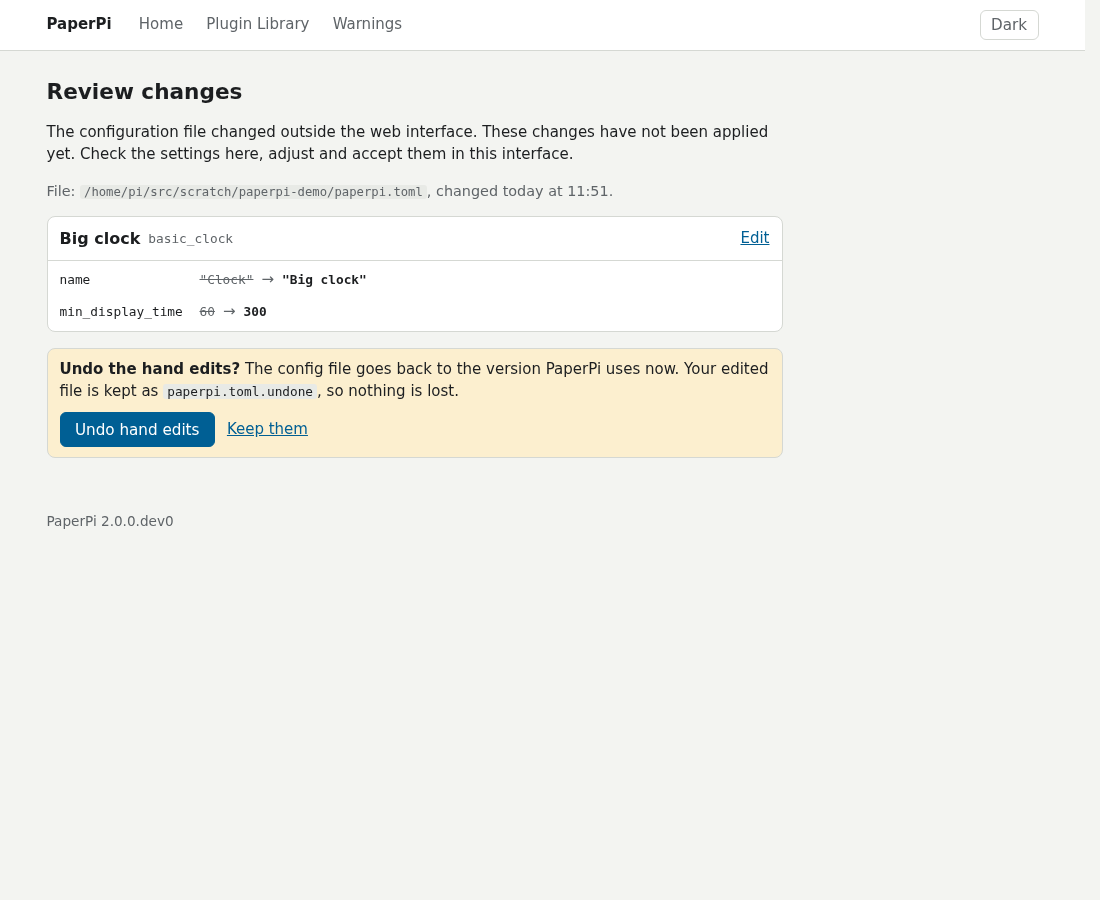
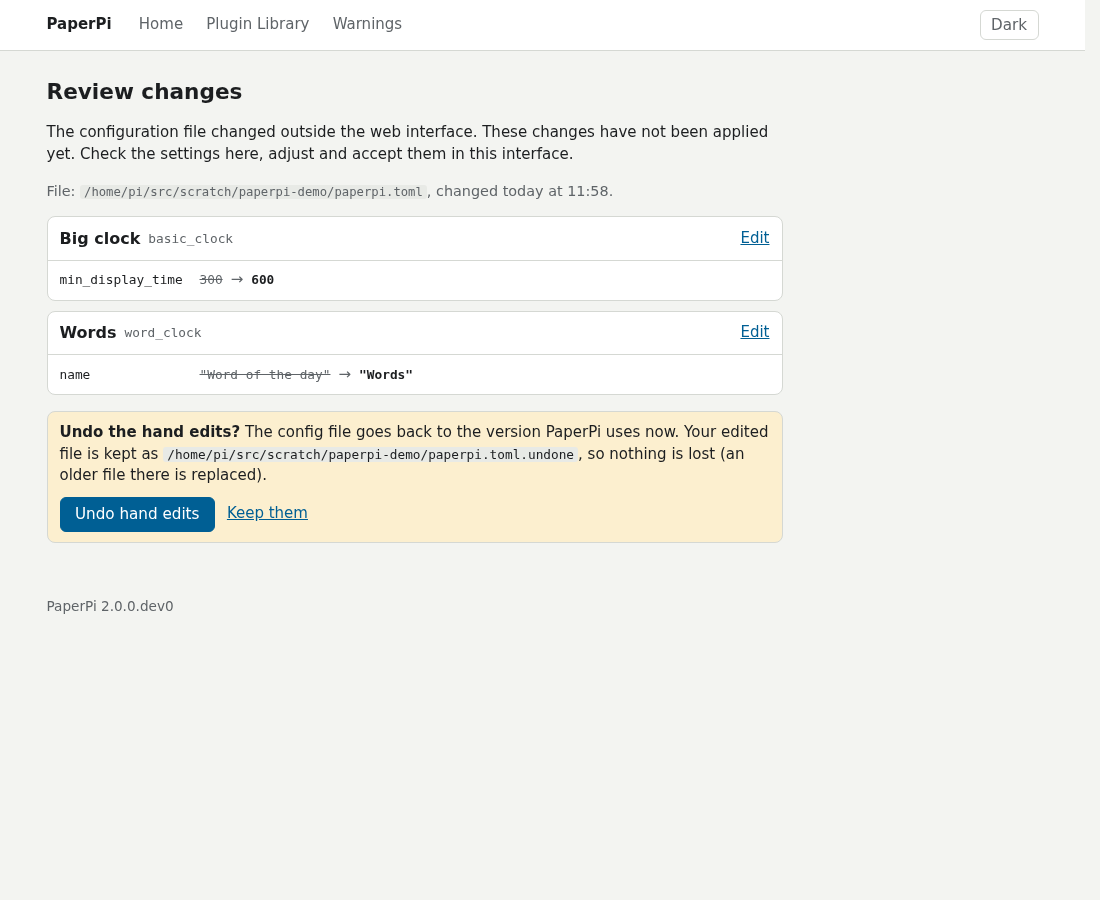
Review fixes: real path of the .undone file, refuse a stale Undo, inode in the hand edits check

Changed region(s): [[0.0309, 0.28, 0.7109, 0.6222], [0.0309, 0.6533, 0.1545, 0.6844], [0.2782, 0.3111, 0.3091, 0.3422]]

diff --git a/src/paperpi/web/templates/changes.html b/src/paperpi/web/templates/changes.html
@@ -7,7 +7,7 @@
 <h1>Review changes</h1>
 {% if message %}<p class="saved">{{ message }}</p>{% endif %}
 {% if undone %}<p class="saved">Hand edits undone. Your edited file is saved as
-  <code>{{ undone }}</code>, next to the config file.</p>{% endif %}
+  <code>{{ kept }}</code>.</p>{% endif %}
 {% if problem %}<p class="note">Nothing was undone: {{ problem }}</p>{% endif %}
 {% if review is none %}
   {% if not running %}
@@ -73,8 +73,10 @@ applied yet. Check the settings here, adjust and accept them in this interface.<
 {% if asking %}
 <div class="confirm" id="undo">
   <p><strong>Undo the hand edits?</strong> The config file goes back to the version PaperPi
-  uses now. Your edited file is kept as <code>{{ path.name }}.undone</code>, so nothing is lost.</p>
+  uses now. Your edited file is kept as <code>{{ kept }}</code>, so nothing is lost
+  (an older file there is replaced).</p>
   <form method="post" action="/changes/undo">
+    <input type="hidden" name="seen" value="{{ seen }}">
     <button type="submit">Undo hand edits</button>
     <a href="/changes">Keep them</a>
   </form>

diff --git a/tests/test_web_changes.py b/tests/test_web_changes.py
@@ -7,7 +7,7 @@ from fastapi.testclient import TestClient
 
 from paperpi import config, limits
 from paperpi.scheduler import Summary
-from paperpi.web import auth, changes
+from paperpi.web import auth, changes, config_file
 from paperpi.web.app import create_app
 from paperpi.web.plugins import PluginEditor
 
@@ -328,6 +328,11 @@ def test_without_the_screen_running_there_is_nothing_to_apply(cfg):
 # Undo hand edits
 
 
+def undo(client, text):
+    """Send Undo as the confirm box does, for the file ``text`` it showed."""
+    return client.post("/changes/undo", data={"seen": config_file.fingerprint(text)})
+
+
 def test_undo_asks_first_and_works_without_javascript(setup, cfg):
     client, _ = setup
     cfg.write_text(edited(('name = "Clock"', 'name = "Big clock"')))
@@ -347,14 +352,14 @@ def test_undo_puts_back_the_applied_file_and_keeps_the_edited_one(setup, cfg):
     hand = edited(('name = "Clock"', 'name = "Big clock"'))
     cfg.write_text(hand)
     (cfg.parent / "paperpi.toml.undone").write_text("an older one")
-    response = client.post("/changes/undo")
+    response = undo(client, hand)
     assert response.headers["location"] == "/changes?done=undone"
     assert cfg.read_text() == CONFIG and cfg.stat().st_mode & 0o777 == 0o640
     kept = cfg.parent / "paperpi.toml.undone"
     assert kept.read_text() == hand and kept.stat().st_mode & 0o777 == 0o640
     assert scheduler.reloads == 0  # PaperPi uses this text already
     page = client.get(response.headers["location"]).text
-    assert "Hand edits undone" in page and "<code>paperpi.toml.undone</code>" in page
+    assert f"Hand edits undone. Your edited file is saved as\n  <code>{kept}</code>." in page
     assert "No hand edits are waiting" not in page
     assert "edits-bar" not in client.get("/").text
 
@@ -363,7 +368,7 @@ def test_a_file_with_a_mistake_can_be_undone(setup, cfg):
     client, _ = setup
     cfg.write_text(CONFIG + "\n[display\n")
     assert "Undo hand edits…" in client.get("/changes").text
-    client.post("/changes/undo")
+    undo(client, CONFIG + "\n[display\n")
     assert cfg.read_text() == CONFIG
 
 
@@ -371,13 +376,20 @@ def test_a_config_file_link_keeps_the_undone_file_next_to_the_real_file(tmp_path
     real = tmp_path / "etc" / "paperpi.toml"
     real.parent.mkdir()
     real.write_text(CONFIG)
-    link = tmp_path / "paperpi.toml"
+    link = tmp_path / "main.toml"
     link.symlink_to(real)
     editor = PluginEditor(link)
     editor.loaded(CONFIG)
-    real.write_text(edited(('name = "Clock"', 'name = "Big clock"')))
-    assert editor.undo() == real.parent / "paperpi.toml.undone"
-    assert link.is_symlink() and real.read_text() == CONFIG
+    scheduler = FakeScheduler(editor)
+    app = create_app(auth.Auth(link, config.WebSettings(login=False)), editor, controls=scheduler)
+    client = TestClient(app, follow_redirects=False, base_url=PI)
+    hand = edited(('name = "Clock"', 'name = "Big clock"'))
+    real.write_text(hand)
+    kept = real.parent / "paperpi.toml.undone"
+    assert f"<code>{kept}</code>" in client.get("/changes?undo=1").text
+    undo(client, hand)
+    assert link.is_symlink() and real.read_text() == CONFIG and kept.read_text() == hand
+    assert not (tmp_path / "main.toml.undone").exists()
 
 
 def test_nothing_to_undo(setup, cfg):
@@ -387,7 +399,7 @@ def test_nothing_to_undo(setup, cfg):
     assert "Undo the hand edits?" not in client.get("/changes?undo=1").text
     # Only a comment changed: no hand edit.
     cfg.write_text(CONFIG + "# a note\n")
-    assert client.post("/changes/undo").headers["location"] == "/changes"
+    assert undo(client, CONFIG + "# a note\n").headers["location"] == "/changes"
     assert cfg.read_text() == CONFIG + "# a note\n"
 
 
@@ -400,7 +412,7 @@ def test_undo_says_when_a_file_cant_be_saved(setup, cfg, monkeypatch):
         raise PermissionError(13, "Permission denied")
 
     monkeypatch.setattr("paperpi.web.config_file.write_atomic", fail)
-    response = client.post("/changes/undo")
+    response = undo(client, hand)
     assert response.status_code == 409
     assert "Nothing was undone: can&#39;t save" in response.text
     assert "paperpi.toml.undone: [Errno 13] Permission denied" in response.text
@@ -408,8 +420,6 @@ def test_undo_says_when_a_file_cant_be_saved(setup, cfg, monkeypatch):
 
 
 def test_undo_never_loses_the_edits_when_the_config_file_cant_be_saved(tmp_path, monkeypatch):
-    from paperpi.web import config_file
-
     path = tmp_path / "paperpi.toml"
     hand = edited(('name = "Clock"', 'name = "Big clock"'))
     path.write_text(hand)
@@ -424,7 +434,7 @@ def test_undo_never_loses_the_edits_when_the_config_file_cant_be_saved(tmp_path,
 
     monkeypatch.setattr(config_file, "write_atomic", fail_for_config)
     with pytest.raises(config_file.EditError, match="No space left"):
-        editor.undo()
+        editor.undo(config_file.fingerprint(hand))
     assert path.read_text() == hand and (tmp_path / "paperpi.toml.undone").read_text() == hand
 
 
@@ -436,3 +446,24 @@ def test_without_the_screen_running_there_is_nothing_to_undo(cfg):
     cfg.write_text(edited(('name = "Clock"', 'name = "Big clock"')))
     assert client.post("/changes/undo").headers["location"] == "/changes"
     assert cfg.read_text() != CONFIG
+
+
+def test_undo_refuses_when_the_file_changed_after_the_page_was_opened(setup, cfg):
+    client, _ = setup
+    shown = edited(('name = "Clock"', 'name = "Big clock"'))
+    cfg.write_text(shown)
+    assert f'value="{config_file.fingerprint(shown)}"' in client.get("/changes?undo=1").text
+    later = edited(('name = "Clock"', 'name = "Huge clock"'))
+    cfg.write_text(later)
+    response = undo(client, shown)
+    assert response.status_code == 409 and "changed after this page was opened" in response.text
+    assert cfg.read_text() == later and not (cfg.parent / "paperpi.toml.undone").exists()
+
+
+def test_undo_from_another_site_is_refused(setup, cfg):
+    client, _ = setup
+    hand = edited(('name = "Clock"', 'name = "Big clock"'))
+    cfg.write_text(hand)
+    seen = {"seen": config_file.fingerprint(hand)}
+    response = client.post("/changes/undo", data=seen, headers={"origin": "http://evil.example"})
+    assert response.status_code == 403 and cfg.read_text() == hand

diff --git a/src/paperpi/web/app.py b/src/paperpi/web/app.py
@@ -69,7 +69,7 @@ from ..config import ConfigError, folder_name, read_text
 from ..logbook import Logbook
 from . import changes, logs, warnings
 from .auth import COOKIE_SECONDS, Auth, new_cookie
-from .config_file import EditError, UnknownForm, saved_here
+from .config_file import EditError, UnknownForm, fingerprint, kept_path, saved_here
 from .forms import Read, fields, form_texts
 from .helpers import Searcher, SearchFailed, language
 from .home import Controls, Snapshots, card_key, cards, now_part
@@ -403,7 +403,8 @@ def create_app(
             stat = editor.path.stat()
         except OSError:
             return None
-        key = (stat.st_mtime_ns, stat.st_size, applied)
+        # A save makes a new file (new inode), even within the same timestamp step.
+        key = (stat.st_ino, stat.st_mtime_ns, stat.st_size, applied)
         if edits_found.get("key") != key:
             try:
                 text = read_text(editor.path)
@@ -444,10 +445,10 @@ def create_app(
             today=date.today(),
             command=_reload_command(),
             message=_DONE.get(done) if done in ("applied", "applying") else None,
-            undone=Path(os.path.realpath(editor.path)).name + ".undone"
-            if done == "undone" and found is None
-            else None,
+            kept=kept_path(editor.path),
+            undone=done == "undone" and found is None,
             asking=asking and found is not None,
+            seen=fingerprint(edited) if edited is not None else "",
             problem=problem,
         )
 
@@ -476,11 +477,11 @@ def create_app(
         return RedirectResponse(f"/changes?done={done}", status_code=303)
 
     @app.post("/changes/undo", response_class=HTMLResponse)
-    def undo_changes(request: Request):
+    def undo_changes(request: Request, seen: str = Form("")):
         if hand_edits() is None:  # undone already, or applied
             return RedirectResponse("/changes", status_code=303)
         try:
-            editor.undo()
+            editor.undo(seen)
         except EditError as error:
             return changes_view(request, 409, problem=str(error))
         return RedirectResponse("/changes?done=undone", status_code=303)

diff --git a/src/paperpi/web/plugins.py b/src/paperpi/web/plugins.py
@@ -147,18 +147,25 @@ class PluginEditor:
             self._reload()
         return hand_edits
 
-    def undo(self) -> Path:
+    def undo(self, seen: str) -> Path:
         """Undo the hand edits: put the text PaperPi uses now back in the config file.
 
+        ``seen`` is the :func:`config_file.fingerprint` of the edited text the page showed.
         The edited file is kept as ``<name>.undone`` next to it; returns that path. Nothing
         needs to load again, as PaperPi already uses this text. Raises
-        :class:`config_file.EditError` when there are no hand edits or a file can't be saved.
+        :class:`config_file.EditError` when there are no hand edits, the file changed after
+        the page showed it, or a file can't be saved.
         """
         with config_file.LOCK:
             path, text = config_file.read(self.path)
             applied = self._applied
             if applied is None or text == applied or config_file.saved_here(path, text):
                 raise config_file.EditError("There are no hand edits to undo.")
+            if config_file.fingerprint(text) != seen:
+                raise config_file.EditError(
+                    "The config file changed after this page was opened. Check the changes "
+                    "and try again."
+                )
             kept = config_file.keep(path, text)  # first, so the edits are never lost
             config_file.write(path, applied)
         return kept

diff --git a/src/paperpi/web/config_file.py b/src/paperpi/web/config_file.py
@@ -20,6 +20,7 @@
 
 from __future__ import annotations
 
+import hashlib
 import os
 import re
 import stat
@@ -85,12 +86,23 @@ def write(path: Path, text: str) -> None:
     _saved[path] = text
 
 
+def kept_path(path: Path) -> Path:
+    """Where :func:`keep` saves the edited config file ``path``: next to the real file."""
+    path = Path(os.path.realpath(path))
+    return path.with_name(f"{path.name}.undone")
+
+
 def keep(path: Path, text: str) -> Path:
-    """Save ``text`` next to the config file ``path`` (a real path, from :func:`read`) as
-    ``<name>.undone``, replacing an older one. Returns the path of the kept file."""
-    kept = path.with_name(f"{path.name}.undone")
+    """Save ``text`` as :func:`kept_path` of the config file ``path``, replacing an older
+    one. Returns the path of the kept file."""
+    kept = kept_path(path)
     _write_like(kept, text.encode("utf-8"), path)
     return kept
+
+
+def fingerprint(text: str) -> str:
+    """A short mark of ``text``, for a form to tell which file text it was made for."""
+    return hashlib.sha256(text.encode("utf-8")).hexdigest()[:16]
 
 
 def _write_like(target: Path, data: bytes, config_path: Path) -> None:

diff --git a/docs/decisions/web-interface.md b/docs/decisions/web-interface.md
@@ -106,7 +106,7 @@ In v2 the web interface is the main way to set up and change PaperPi: plugins, s
 - A bar on every page: "The config file was changed outside the web interface. The changes are not used yet.", with **Review changes**.
 - The **Review changes** page lists the changes per plugin and for the screen settings (old → new), each with a link to its settings page (for the screen: once the Screen & system page exists, part 5), and offers **Apply changes** and **Undo hand edits** (after "Are you sure?"; the edited file is kept as `paperpi.toml.undone`). With a mistake in the file it shows the line and Apply is off. It also shows how to apply from the command line (`sudo systemctl reload paperpi`, or `kill -HUP <process id>`, which sends PaperPi the reload signal). A `paperpi reload` command is planned in issue #272.
 - *How Review changes is built (part 4, PR 5a, 2026-10-15):* the web interface keeps the text of the config file PaperPi loaded last (at the start and at each reload that could be used). The file has hand edits when its settings differ from that text and it is not the text the web interface saved itself; a change to a comment or a blank line alone is not one. The page compares the two as TOML reads them: per `[[plugin]]` block, matched by its ID (a new ID is a removed plugin and a new one), then `[display]` ("Screen"), `[web]` and the rest of the file. Each changed setting shows its old and new value as written in the file, or "(default: …)" when it is not set; secrets (the web password, a plugin's password or API key; for a plugin type PaperPi doesn't know, every setting but the shared ones, and after a type change also the old type's secrets) show only "(hidden)". Notes say what is special: a screen or `[web]` setting that applies at the next start, a new plugin's place in the order, a plugin moved among the others (the fewest plugins that explain the new order; one only pushed along by an added or removed plugin did not move), a removed plugin's storage folder (kept, as it may hold photos). A file that can't be used shows its mistakes with their line, and **Apply changes** is off (and refused when sent anyway); a mistake in one plugin block is listed, but Apply stays on (PaperPi leaves that plugin out). **Apply changes** asks for the same reload as `kill -HUP` and waits up to 3 seconds for PaperPi to load the file, which it does between two screen writes; the page then says "Applied", or that it is still busy. Without the screen running (`paperpi run` not running the scheduler) there is nothing to apply to, so there is no bar. The command shown is `sudo systemctl reload paperpi` when PaperPi runs as a service (systemd sets `INVOCATION_ID`), else `kill -HUP` with PaperPi's process ID. The mockup's **Copy** button next to the command is left out: the page has no script of its own, and the command is short to type or select.
-- *How Undo hand edits is built (part 4, PR 5b, 2026-10-15):* **Undo hand edits…** opens "Undo the hand edits?" on the same page (`/changes?undo=1`, a plain link, so it works without JavaScript), with **Undo hand edits** and **Keep them**. Undo first saves the edited file as `<config file name>.undone` in the config file's folder (replacing an older one; for a config file that is a link, next to the file it points to), with the config file's permissions and owner, then writes back the text PaperPi loaded last. PaperPi uses that text already, so nothing loads again. If either file can't be saved, the page says so and the config file stays as it was. The `.undone` file always goes in the config file's folder: saving the config file itself needs that folder to be writable (the new file is written there first, then renamed), so another place would not help. A file with a mistake can be undone too; that is when Undo helps most. Undo is refused when there is nothing to undo (no hand edits, only a comment changed, or the screen is not running).
+- *How Undo hand edits is built (part 4, PR 5b, 2026-10-15):* **Undo hand edits…** opens "Undo the hand edits?" on the same page (`/changes?undo=1`, a plain link, so it works without JavaScript), with **Undo hand edits** and **Keep them**; the box names the full path of the `.undone` file and says an older one there is replaced. The form carries a short mark (a hash) of the edited text the page showed: if the file changed again after that, Undo is refused with "The config file changed after this page was opened", so it never undoes edits the user has not seen. Undo first saves the edited file as `<config file name>.undone` in the config file's folder (replacing an older one; for a config file that is a link, next to the file it points to), with the config file's permissions and owner, then writes back the text PaperPi loaded last. PaperPi uses that text already, so nothing loads again. If either file can't be saved, the page says so and the config file stays as it was. The `.undone` file always goes in the config file's folder: saving the config file itself needs that folder to be writable (the new file is written there first, then renamed), so another place would not help. A file with a mistake can be undone too; that is when Undo helps most. Undo is refused when there is nothing to undo (no hand edits, only a comment changed, or the screen is not running). One rare case is left: after **Apply changes** said PaperPi is still busy, an Undo can be written just after PaperPi read the edited file. PaperPi then uses the edits while the file holds the old text; the bar comes back and shows the change the other way round, so nothing is hidden or lost.
 
 **Plugin Library**
 - A card per plugin: example picture, a plain name (a new `title` in the plugin's definition, e.g. "Weather"; the type is shown small), the description, labels ("Uses the internet", "Configuration Required"), the names it was already added under, a search box, and **+ Add**.
